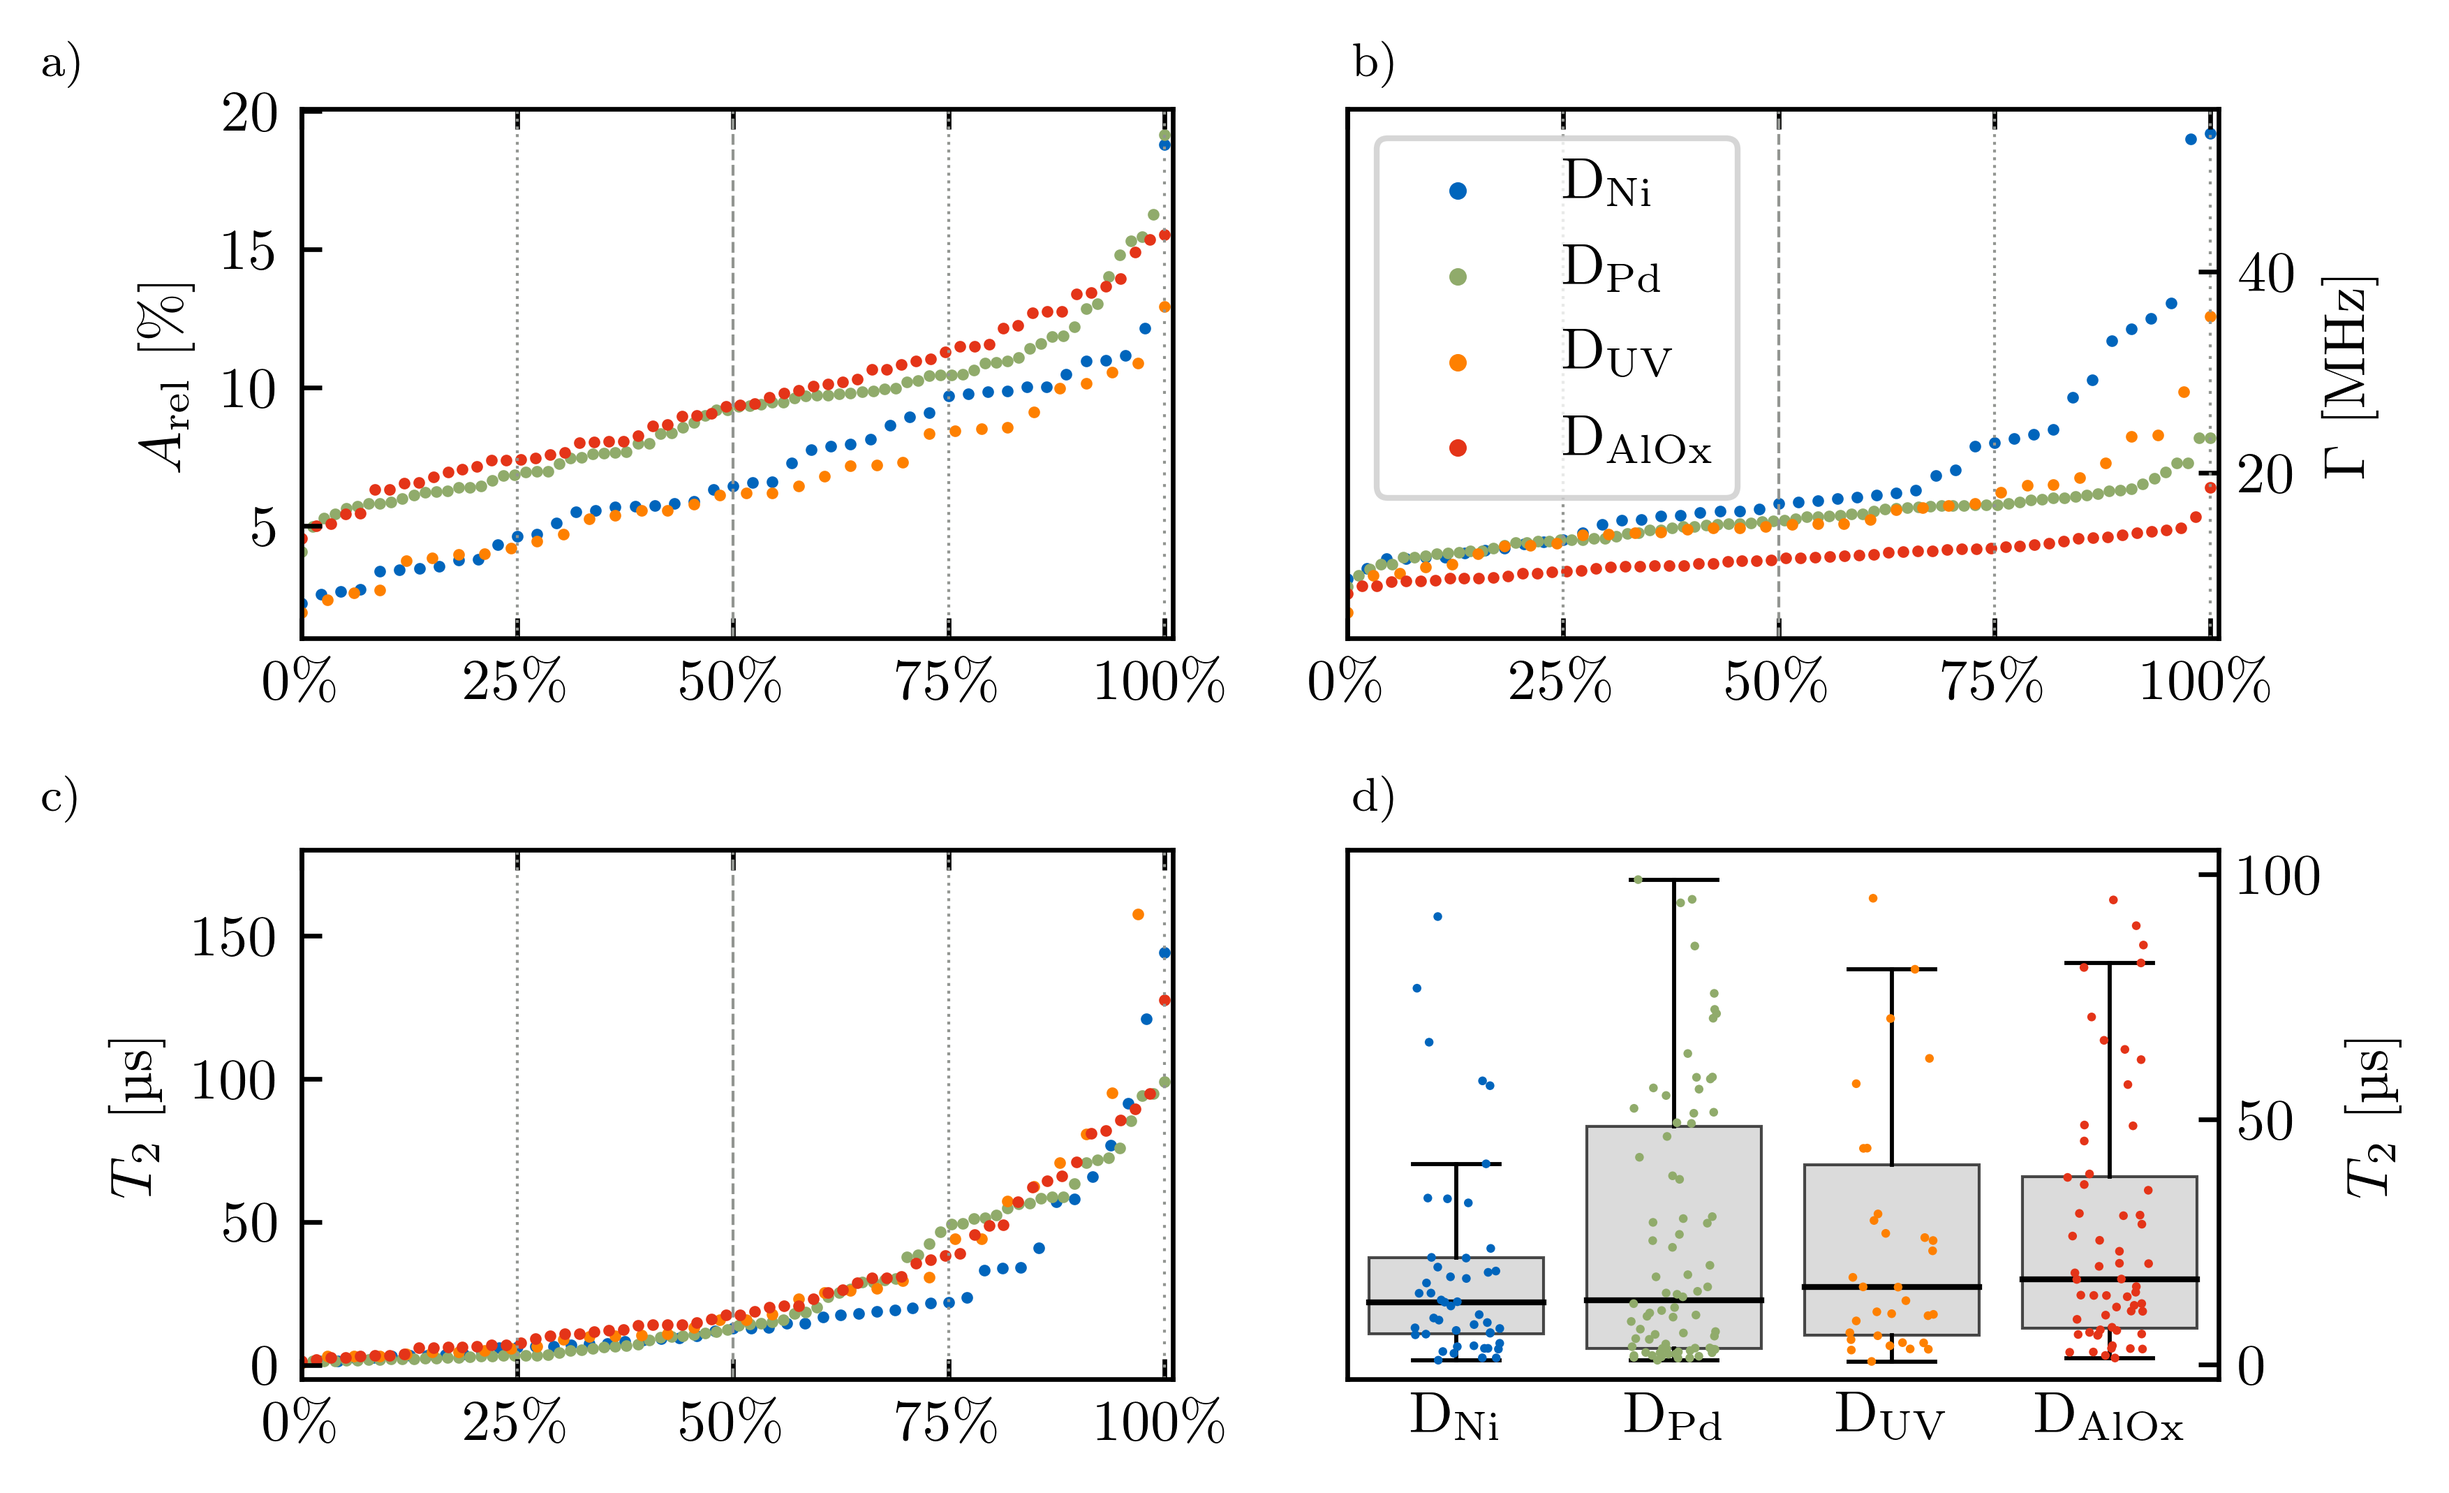
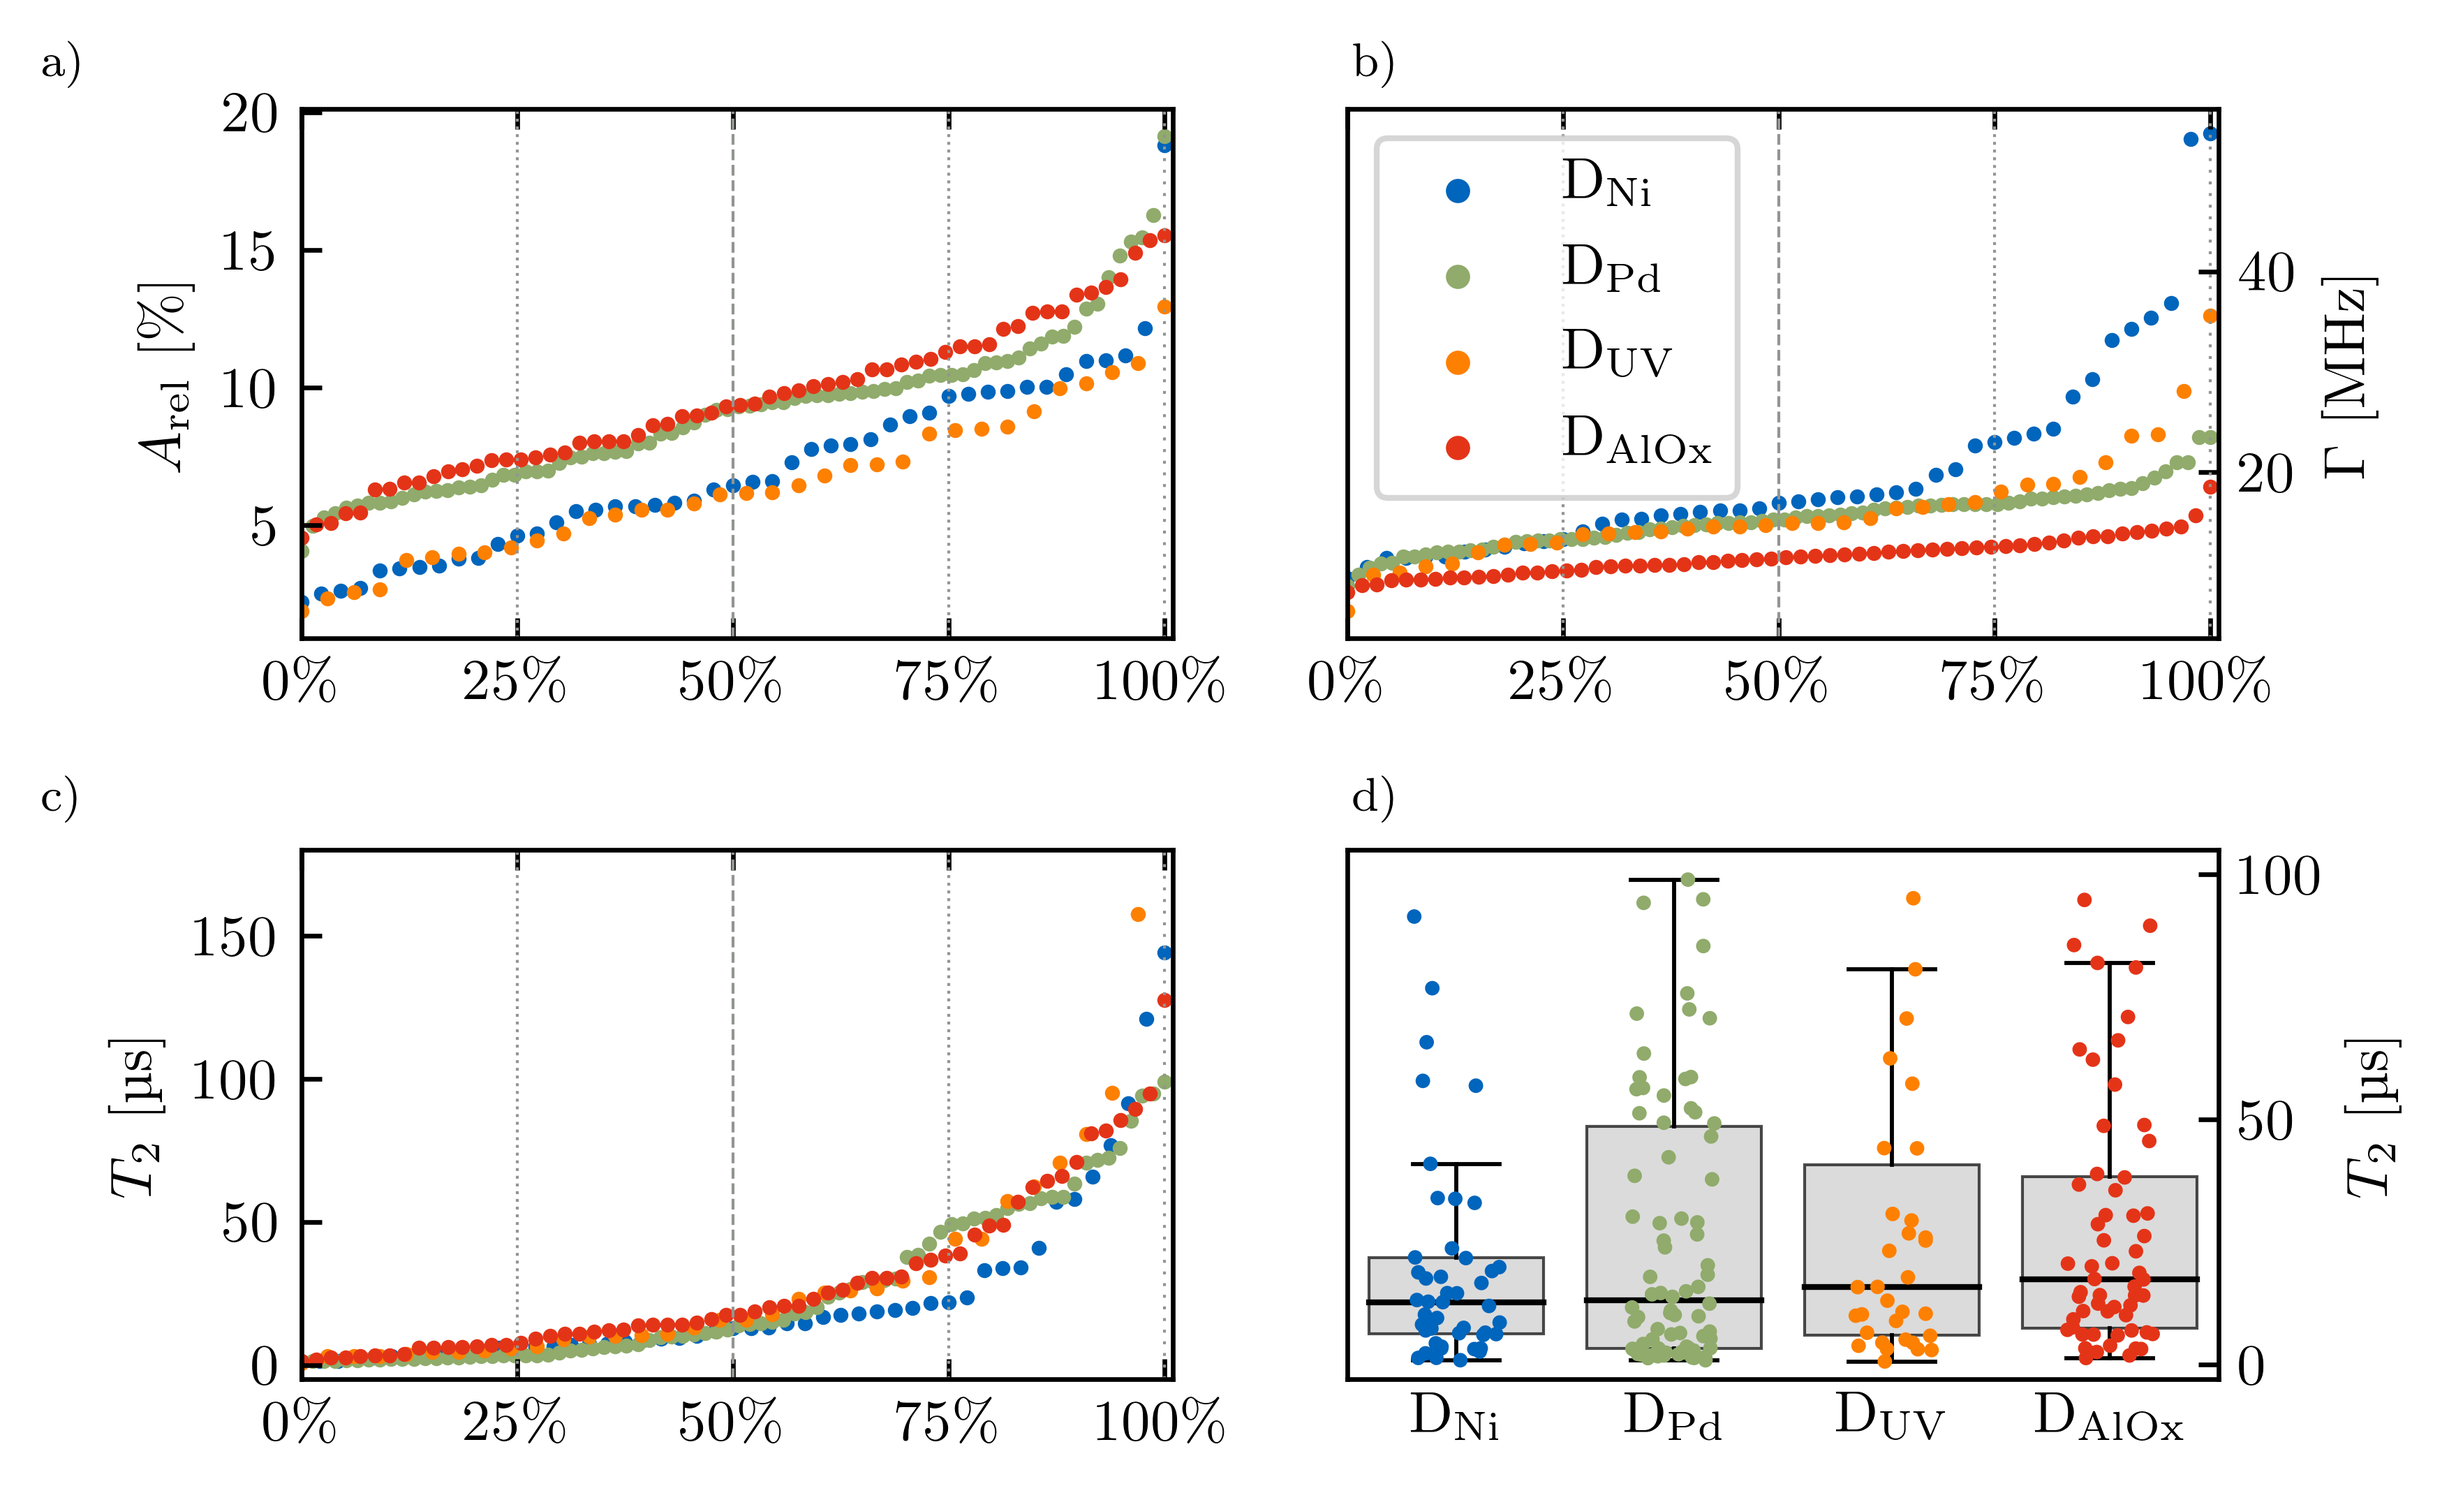
chapter6/spin_properties
- point size adjustment

diff --git a/images/chapter_6/spin_properties.py b/images/chapter_6/spin_properties.py
@@ -80,7 +80,9 @@ class SpinPropertiesPlotter:
                   (156 / 255, 157 / 255, 159 / 255),  # TUM Yellow
                   ]
 
-        sns.stripplot(x='Probe', y='T2', data=df, palette=colors, jitter=0.2, dodge=False, size=1.5, alpha=1,
+        scatter_point_size = 2.5
+        sns.stripplot(x='Probe', y='T2', data=df, palette=colors, jitter=0.2, dodge=False, size=scatter_point_size,
+                      alpha=1,
                       linewidth=0,
                       ax=boxAx)
 
@@ -100,11 +102,14 @@ class SpinPropertiesPlotter:
         T2SortD45 = csvDatD45_2[csvDatD45_2[:, 12].argsort()]
         T2SortD01B = csvDatD01B_1[csvDatD01B_1[:, 12].argsort()]
         T2SortD02C = csvDatD02C[csvDatD02C[:, 12].argsort()]
-        scat_s = 1
-        T2Ax.scatter(np.linspace(0, 100, T2SortD45.shape[0]), T2SortD45[:, 12], s=scat_s, color=colors[0], label=DNi)
-        T2Ax.scatter(np.linspace(0, 100, T2SortD44.shape[0]), T2SortD44[:, 12], s=scat_s, color=colors[1], label=DPd)
-        T2Ax.scatter(np.linspace(0, 100, T2SortD01B.shape[0]), T2SortD01B[:, 12], s=scat_s, color=colors[2], label=DUV)
-        T2Ax.scatter(np.linspace(0, 100, T2SortD02C.shape[0]), T2SortD02C[:, 12], s=scat_s, color=colors[3],
+
+        T2Ax.scatter(np.linspace(0, 100, T2SortD45.shape[0]), T2SortD45[:, 12], s=scatter_point_size, color=colors[0],
+                     label=DNi)
+        T2Ax.scatter(np.linspace(0, 100, T2SortD44.shape[0]), T2SortD44[:, 12], s=scatter_point_size, color=colors[1],
+                     label=DPd)
+        T2Ax.scatter(np.linspace(0, 100, T2SortD01B.shape[0]), T2SortD01B[:, 12], s=scatter_point_size, color=colors[2],
+                     label=DUV)
+        T2Ax.scatter(np.linspace(0, 100, T2SortD02C.shape[0]), T2SortD02C[:, 12], s=scatter_point_size, color=colors[3],
                      label=DAlOx)
 
         lw = 0.5
@@ -130,10 +135,10 @@ class SpinPropertiesPlotter:
         SortODMRH_01b = ODMRH_01b[ODMRH_01b.argsort()] * 1E2
         SortODMRH_02c = ODMRH_02c[ODMRH_02c.argsort()] * 1E2
 
-        plt.scatter(np.linspace(0, 100, ODMRH_45.shape[0]), SortODMRH_45, s=scat_s, color=colors[0])
-        plt.scatter(np.linspace(0, 100, ODMRH_44.shape[0]), SortODMRH_44, s=scat_s, color=colors[1])
-        plt.scatter(np.linspace(0, 100, ODMRH_01b.shape[0]), SortODMRH_01b, s=scat_s, color=colors[2])
-        plt.scatter(np.linspace(0, 100, ODMRH_02c.shape[0]), SortODMRH_02c, s=scat_s, color=colors[3])
+        plt.scatter(np.linspace(0, 100, ODMRH_45.shape[0]), SortODMRH_45, s=scatter_point_size, color=colors[0])
+        plt.scatter(np.linspace(0, 100, ODMRH_44.shape[0]), SortODMRH_44, s=scatter_point_size, color=colors[1])
+        plt.scatter(np.linspace(0, 100, ODMRH_01b.shape[0]), SortODMRH_01b, s=scatter_point_size, color=colors[2])
+        plt.scatter(np.linspace(0, 100, ODMRH_02c.shape[0]), SortODMRH_02c, s=scatter_point_size, color=colors[3])
 
         plt.axvline(50, color='xkcd:gray', ls='--', linewidth=lw)
         plt.axvline(75, color='xkcd:gray', ls=':', linewidth=lw)
@@ -151,10 +156,14 @@ class SpinPropertiesPlotter:
         SortODMRWid_01b = ODMRWid_01b[ODMRWid_01b.argsort()] * 1E3
         SortODMRWid_02c = ODMRWid_02c[ODMRWid_02c.argsort()] * 1E3
 
-        plt.scatter(np.linspace(0, 100, ODMRWid_45.shape[0]), SortODMRWid_45, s=scat_s, color=colors[0], label=DNi)
-        plt.scatter(np.linspace(0, 100, ODMRWid_44.shape[0]), SortODMRWid_44, s=scat_s, color=colors[1], label=DPd)
-        plt.scatter(np.linspace(0, 100, ODMRWid_01b.shape[0]), SortODMRWid_01b, s=scat_s, color=colors[2], label=DUV)
-        plt.scatter(np.linspace(0, 100, ODMRWid_02c.shape[0]), SortODMRWid_02c, s=scat_s, color=colors[3], label=DAlOx)
+        plt.scatter(np.linspace(0, 100, ODMRWid_45.shape[0]), SortODMRWid_45, s=scatter_point_size, color=colors[0],
+                    label=DNi)
+        plt.scatter(np.linspace(0, 100, ODMRWid_44.shape[0]), SortODMRWid_44, s=scatter_point_size, color=colors[1],
+                    label=DPd)
+        plt.scatter(np.linspace(0, 100, ODMRWid_01b.shape[0]), SortODMRWid_01b, s=scatter_point_size, color=colors[2],
+                    label=DUV)
+        plt.scatter(np.linspace(0, 100, ODMRWid_02c.shape[0]), SortODMRWid_02c, s=scatter_point_size, color=colors[3],
+                    label=DAlOx)
 
         plt.legend(markerscale=2)
 
@@ -173,7 +182,7 @@ class SpinPropertiesPlotter:
         plt.figtext(0.02, 0.455, 'c)', fontsize=8)
         plt.figtext(0.55, 0.455, 'd)', fontsize=8)
 
-        plt.tight_layout(pad=0.1, w_pad=2, h_pad=2)
+        # plt.tight_layout(pad=0.1, w_pad=2, h_pad=2)
         spin_property_fig.savefig('spin_properties/spin_properties.png', dpi=600, pad_inches=0.1, bbox_inches='tight')
 
 
